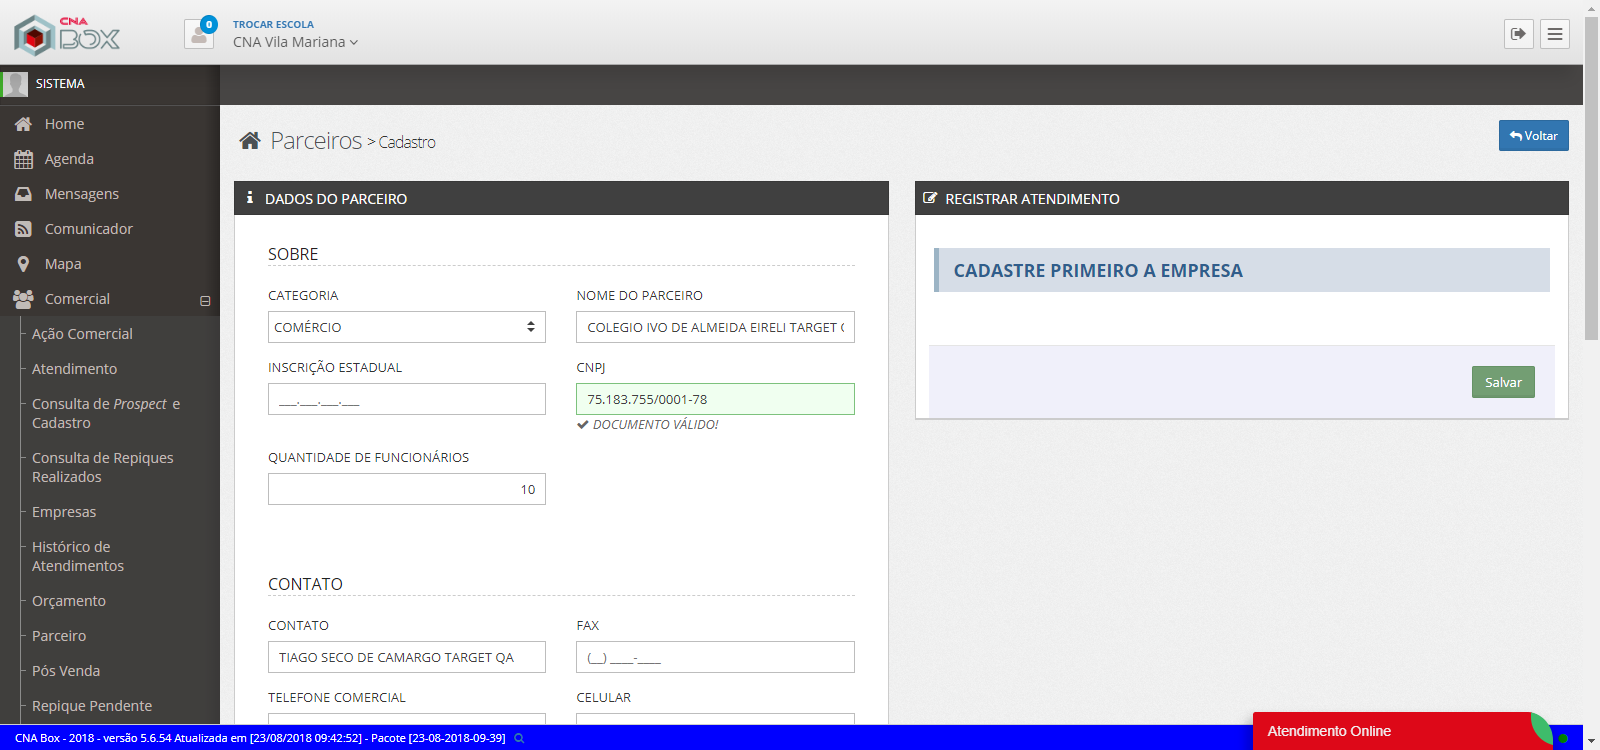
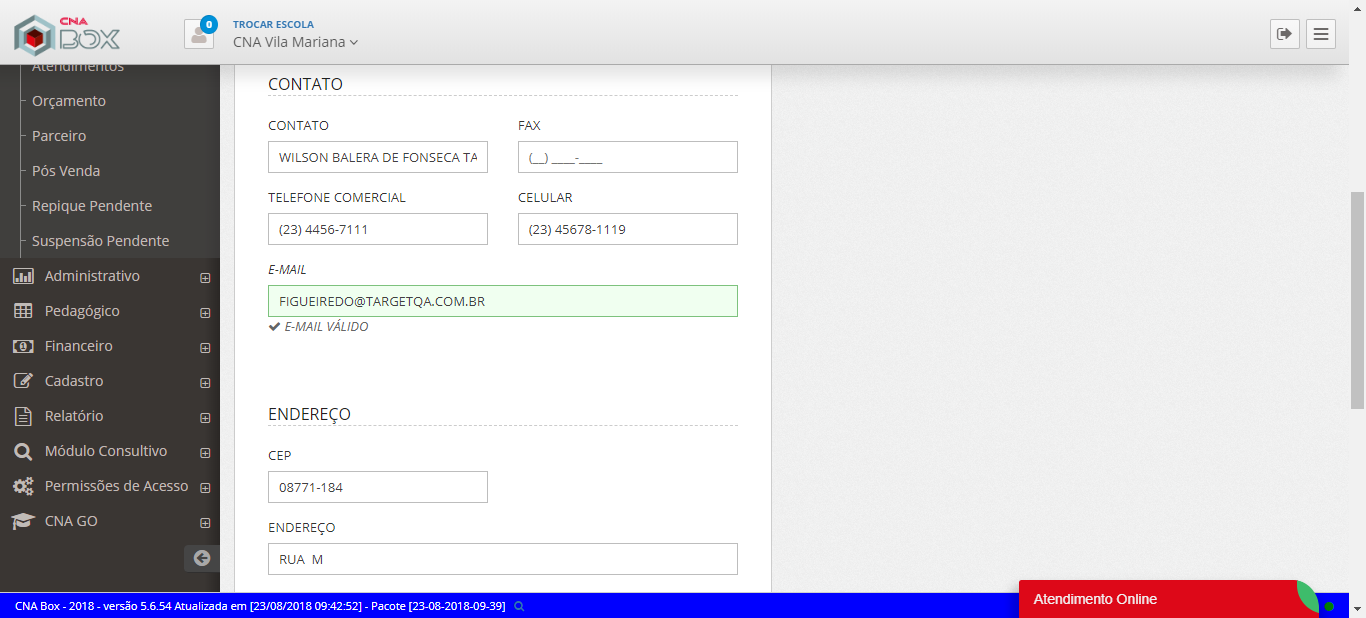
commit
Inserção de AçãoComercialPage

diff --git a/src/test/java/qa/cnabox/page/MenuComerEmpresasCadastrPage.java b/src/test/java/qa/cnabox/page/MenuComerEmpresasCadastrPage.java
@@ -5,100 +5,92 @@ import static qa.cnabox.core.DriverFactory.getDriver;
 import org.openqa.selenium.By;
 import org.openqa.selenium.support.ui.Select;
 
-
-
 public class MenuComerEmpresasCadastrPage extends BasePage {
-	
-	public void SetclicarMenuComercial () throws InterruptedException  {
-		
+
+	public void SetclicarMenuComercial() throws InterruptedException {
+
 		clicarBotaoBy(By.cssSelector(".nav-left-bar li:nth-of-type(6) .menu-item"));
 		Thread.sleep(1000);
-		
-	}
-	
-	public void SetClicarEmpresas () throws InterruptedException {
-		
-		clicarBotaoBy(By.linkText("Empresas"));
-		Thread.sleep(1000);
-		
+
 	}
 
-	
-	public void SetClicarNovaEmpresa () throws InterruptedException{
-		
+	public void SetClicarEmpresas() throws InterruptedException {
+
+		clicarBotaoBy(By.linkText("Empresas"));
+		Thread.sleep(1000);
+
+	}
+
+	public void SetClicarNovaEmpresa() throws InterruptedException {
+
 		clicarBotaoBy(By.cssSelector(".list-btn [data-toggle]"));
 		Thread.sleep(1000);
 	}
 
+	public void SetescreverNome() throws InterruptedException {
 
-	public void SetescreverNome () throws InterruptedException {
-	 
 		clicarBotaoBy(By.cssSelector("#PessoaEscola_Nome"));
 		Thread.sleep(1000);
 		escreveTexto(By.cssSelector("PessoaEscola_Nome"), geraNomeAleatorio());
 		escreveTexto(By.cssSelector("#PessoaEscola_Nome"), geraNomeAleatorio());
-}
-
-	public void SetescreverRazao () throws InterruptedException {
-		
-		clicarBotaoBy(By.cssSelector("#PessoaEscola_Apelido"));
-		Thread.sleep(1000);
-		escreveTexto(By.cssSelector("#PessoaEscola_Apelido"), geraEmpresaAleatorio() );
 	}
 
-	public void SetescreverCNPJ () throws InterruptedException {
-		
-		
-		
+	public void SetescreverRazao() throws InterruptedException {
+
+		clicarBotaoBy(By.cssSelector("#PessoaEscola_Apelido"));
+		Thread.sleep(1000);
+		escreveTexto(By.cssSelector("#PessoaEscola_Apelido"), geraEmpresaAleatorio());
+	}
+
+	public void SetescreverCNPJ() throws InterruptedException {
+
 		escreveId("PessoaEscola_CPF_CNPJ", gerarcnpj(true));
 		Thread.sleep(1000);
 	}
-	
-	
-	public void SetInscricaoEstadual (String Texto) throws InterruptedException {
-		
+
+	public void SetInscricaoEstadual(String Texto) throws InterruptedException {
+
 		escreveId("PessoaEscola_RG_IE", Texto);
 	}
-	
-	public void SetCEP (String texto) throws InterruptedException {
-		
+
+	public void SetCEP(String texto) throws InterruptedException {
+
 		escreveId("PessoaEscola_Endereco_CEP", texto);
 		Thread.sleep(1000);
 	}
-	
-	public void SetEnderecoNumero (String texto) throws InterruptedException{
-		
+
+	public void SetEnderecoNumero(String texto) throws InterruptedException {
+
 		escreveId("PessoaEscola_Endereco_Numero", texto);
 		Thread.sleep(1000);
-	
+
 	}
-	
-	public void SetTelefone (String texto) throws InterruptedException{
-		
+
+	public void SetTelefone(String texto) throws InterruptedException {
+
 		escreveId("PessoaEscola_Telefone", texto);
 		Thread.sleep(1000);
-		
-	
+
 	}
-	
-	public void SetCelular (String Texto) throws InterruptedException {
-		
+
+	public void SetCelular(String Texto) throws InterruptedException {
+
 		escreveId("PessoaEscola_Celular", Texto);
 		Thread.sleep(1000);
-		
+
 	}
-	
-	public void SetEmail () throws InterruptedException{
-		
+
+	public void SetEmail() throws InterruptedException {
+
 		escreveId("PessoaEscola_Email", GeraEmailAleatorio());
 		Thread.sleep(1000);
 	}
-	
-	public void SetTipo () throws InterruptedException{
-		
+
+	public void SetTipo() throws InterruptedException {
+
 		Select dropdown = new Select(getDriver().findElement(By.id("TipoEmpresaId")));
 		dropdown.selectByValue("3");
 		Thread.sleep(1000);
 	}
-	
-	}
+
+}

diff --git a/src/test/java/qa/cnabox/tests/MenuComercialCadastrarParceiroTeste.java b/src/test/java/qa/cnabox/tests/MenuComercialCadastrarParceiroTeste.java
@@ -2,21 +2,17 @@ package qa.cnabox.tests;
 
 import qa.cnabox.core.BaseTest;
 import qa.cnabox.page.MenuComercialCadastrarParceiroPage;
-import static qa.cnabox.core.DriverFactory.getDriver;
-
-import java.awt.AWTException;
-
-import org.junit.Assert;
 import org.junit.Test;
-import org.openqa.selenium.By;
 
-public class MenuComercialCadastrarParceiroTeste extends BaseTest  {
-	
+public class MenuComercialCadastrarParceiroTeste extends BaseTest {
+
 	MenuComercialCadastrarParceiroPage page = new MenuComercialCadastrarParceiroPage();
-	
+
 	@Test
 	public void DeveCadastrarNovoParceiro() throws InterruptedException {
 		page.SetClicarMenuComercial();
+		page.AguardaCarregarPagina();
+		page.SetRolarAPagina();
 		page.SetClicarSubMenuParceiro();
 		page.AguardaCarregarPagina();
 		page.SetClicarCadastrarParceiro();
@@ -24,7 +20,7 @@ public class MenuComercialCadastrarParceiroTeste extends BaseTest  {
 		page.SetCategoria("1");
 		page.SetescreverNomeParceiro();
 		page.AguardaCarregarPagina();
-		page.SetescreverCNPJ("    75183755000178");
+		page.SetescreverCNPJ("    93663029000134");
 		page.AguardaCarregarPagina();
 		page.SetEscreverQtdeFuncionarios("10");
 		page.SetRolarAPagina();
@@ -33,13 +29,15 @@ public class MenuComercialCadastrarParceiroTeste extends BaseTest  {
 		page.SetTelefoneCelular("11123456789");
 		page.SetEscreveEmail();
 		page.SetRolarAPagina();
+		page.SetRolarAPagina();
 		page.AguardaCarregarPagina();
-		page.SetCep("    02118000");
+		page.SetCep("    08771184");
 		page.AguardaCarregarPagina();
 		page.SetNumeroEnderecoParceiro("120");
 		page.SetoRolarCimaSemPageUP();
-		//page.SetSalvar();
-		
+		page.AguardaCarregarPagina();
+		page.SetSalvar();
+
 	}
 
 }
